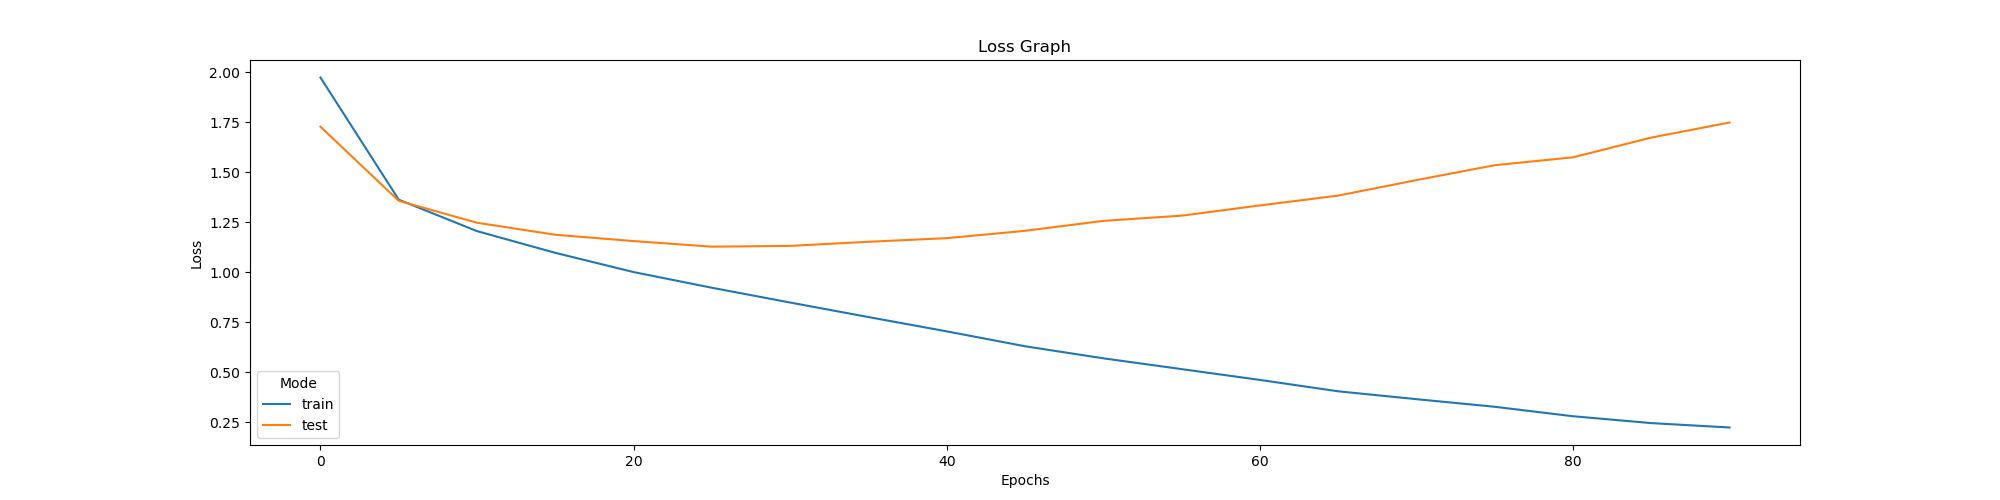
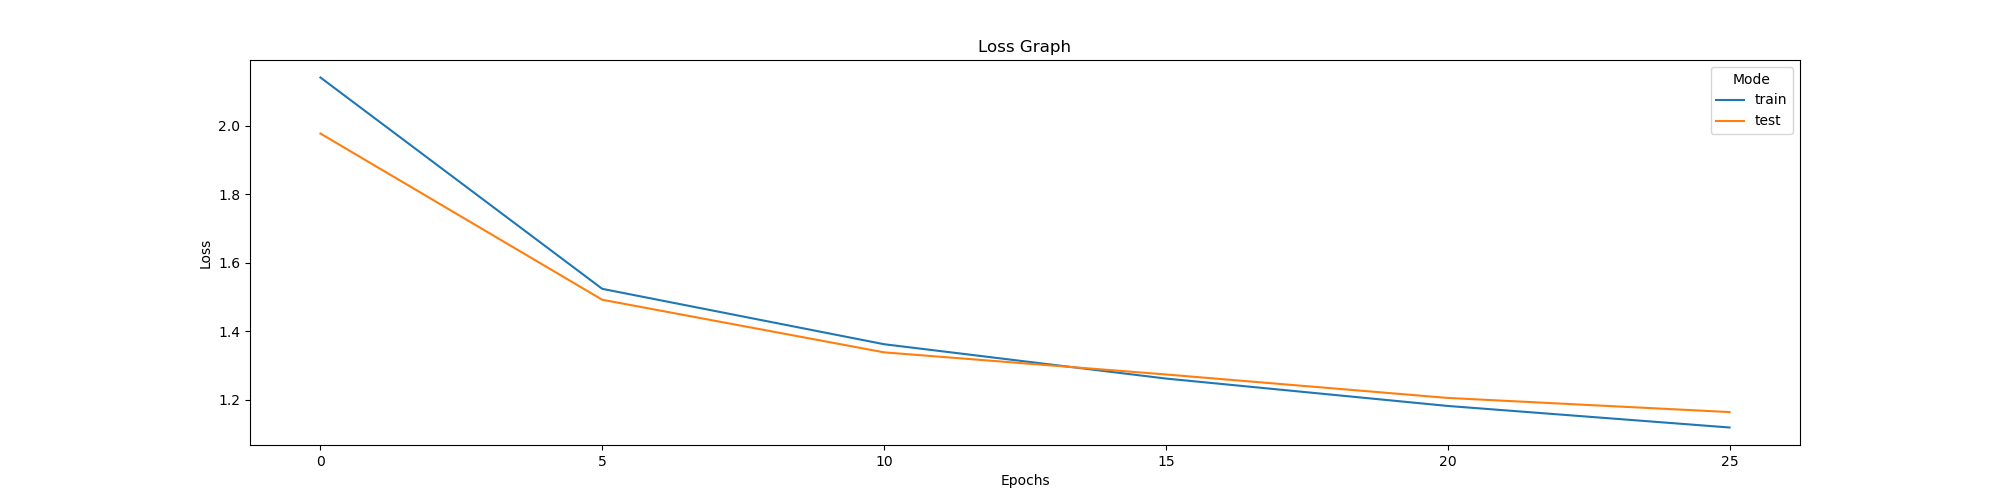
changed cfg

diff --git a/cfg.py b/cfg.py
@@ -7,11 +7,11 @@ MODEL_SAVE_FOLDER='./artifacts/'
 GRAPH_SAVE_FOLDER='./graphs/'
 
 #DATASET CONFIGURATIONS
-BATCH_SIZE=64
+BATCH_SIZE=128
 IMAGE_WIDTH=32
 IMAGE_HEIGHT=32
 IMAGE_CHANNEL=3
-SHUFFLE=False
+SHUFFLE=True
 PATCH_SIZE=8
 NUM_WORKERS=4
 RANDOM_ROTATION=20
@@ -20,18 +20,18 @@ RANDOM_ROTATION=20
 #MODEL CONFIGURATIONS
 TRANSFORMER_NETWORK_DEPTH=6
 NUM_CLASSES=10
-PROJECTION_DIM_KEYS=256
-PROJECTION_DIM_VALUES=512
+PROJECTION_DIM_KEYS=128
+PROJECTION_DIM_VALUES=256
 NUM_HEADS=8
-ATTN_DROPOUT_PROB=0.3
+ATTN_DROPOUT_PROB=0.1
 FEEDFORWARD_PROJECTION_DIM=512
-FEEDFORWARD_DROPOUT_PROB=0.3
+FEEDFORWARD_DROPOUT_PROB=0.1
 
 #TRAINING CONFIGURATIONS
-TRAIN_EPOCH=1000
+TRAIN_EPOCH=500
 LEARNING_RATE=0.0001
-SCHEDULER_GAMMA=0.9
-SCHEDULER_STEP_SIZE=20
+SCHEDULER_GAMMA=0.7
+SCHEDULER_STEP_SIZE=50
 
 
 
